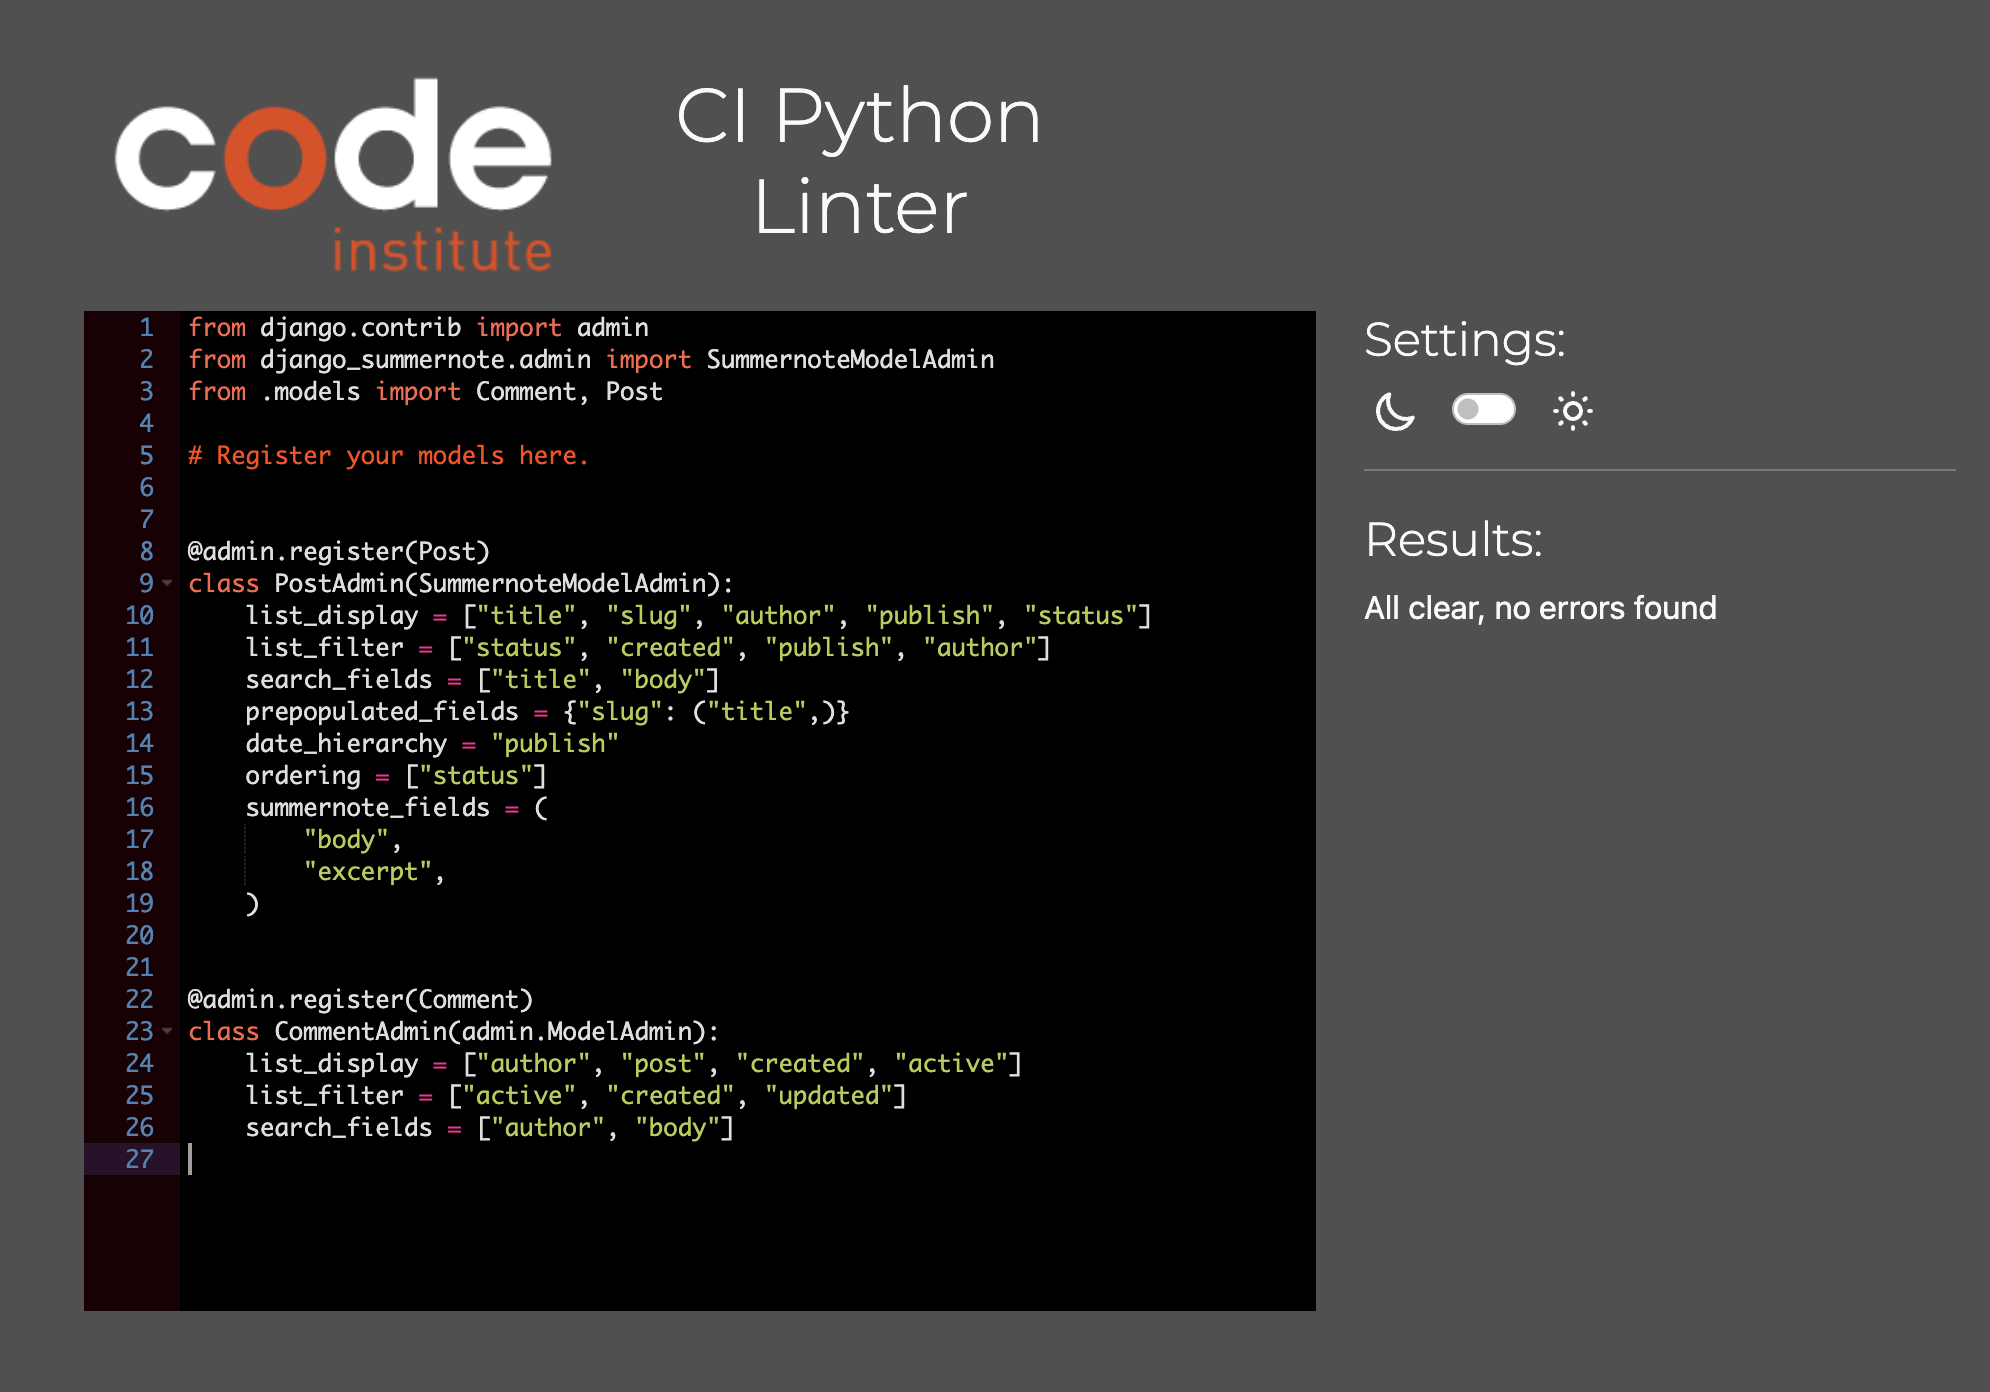
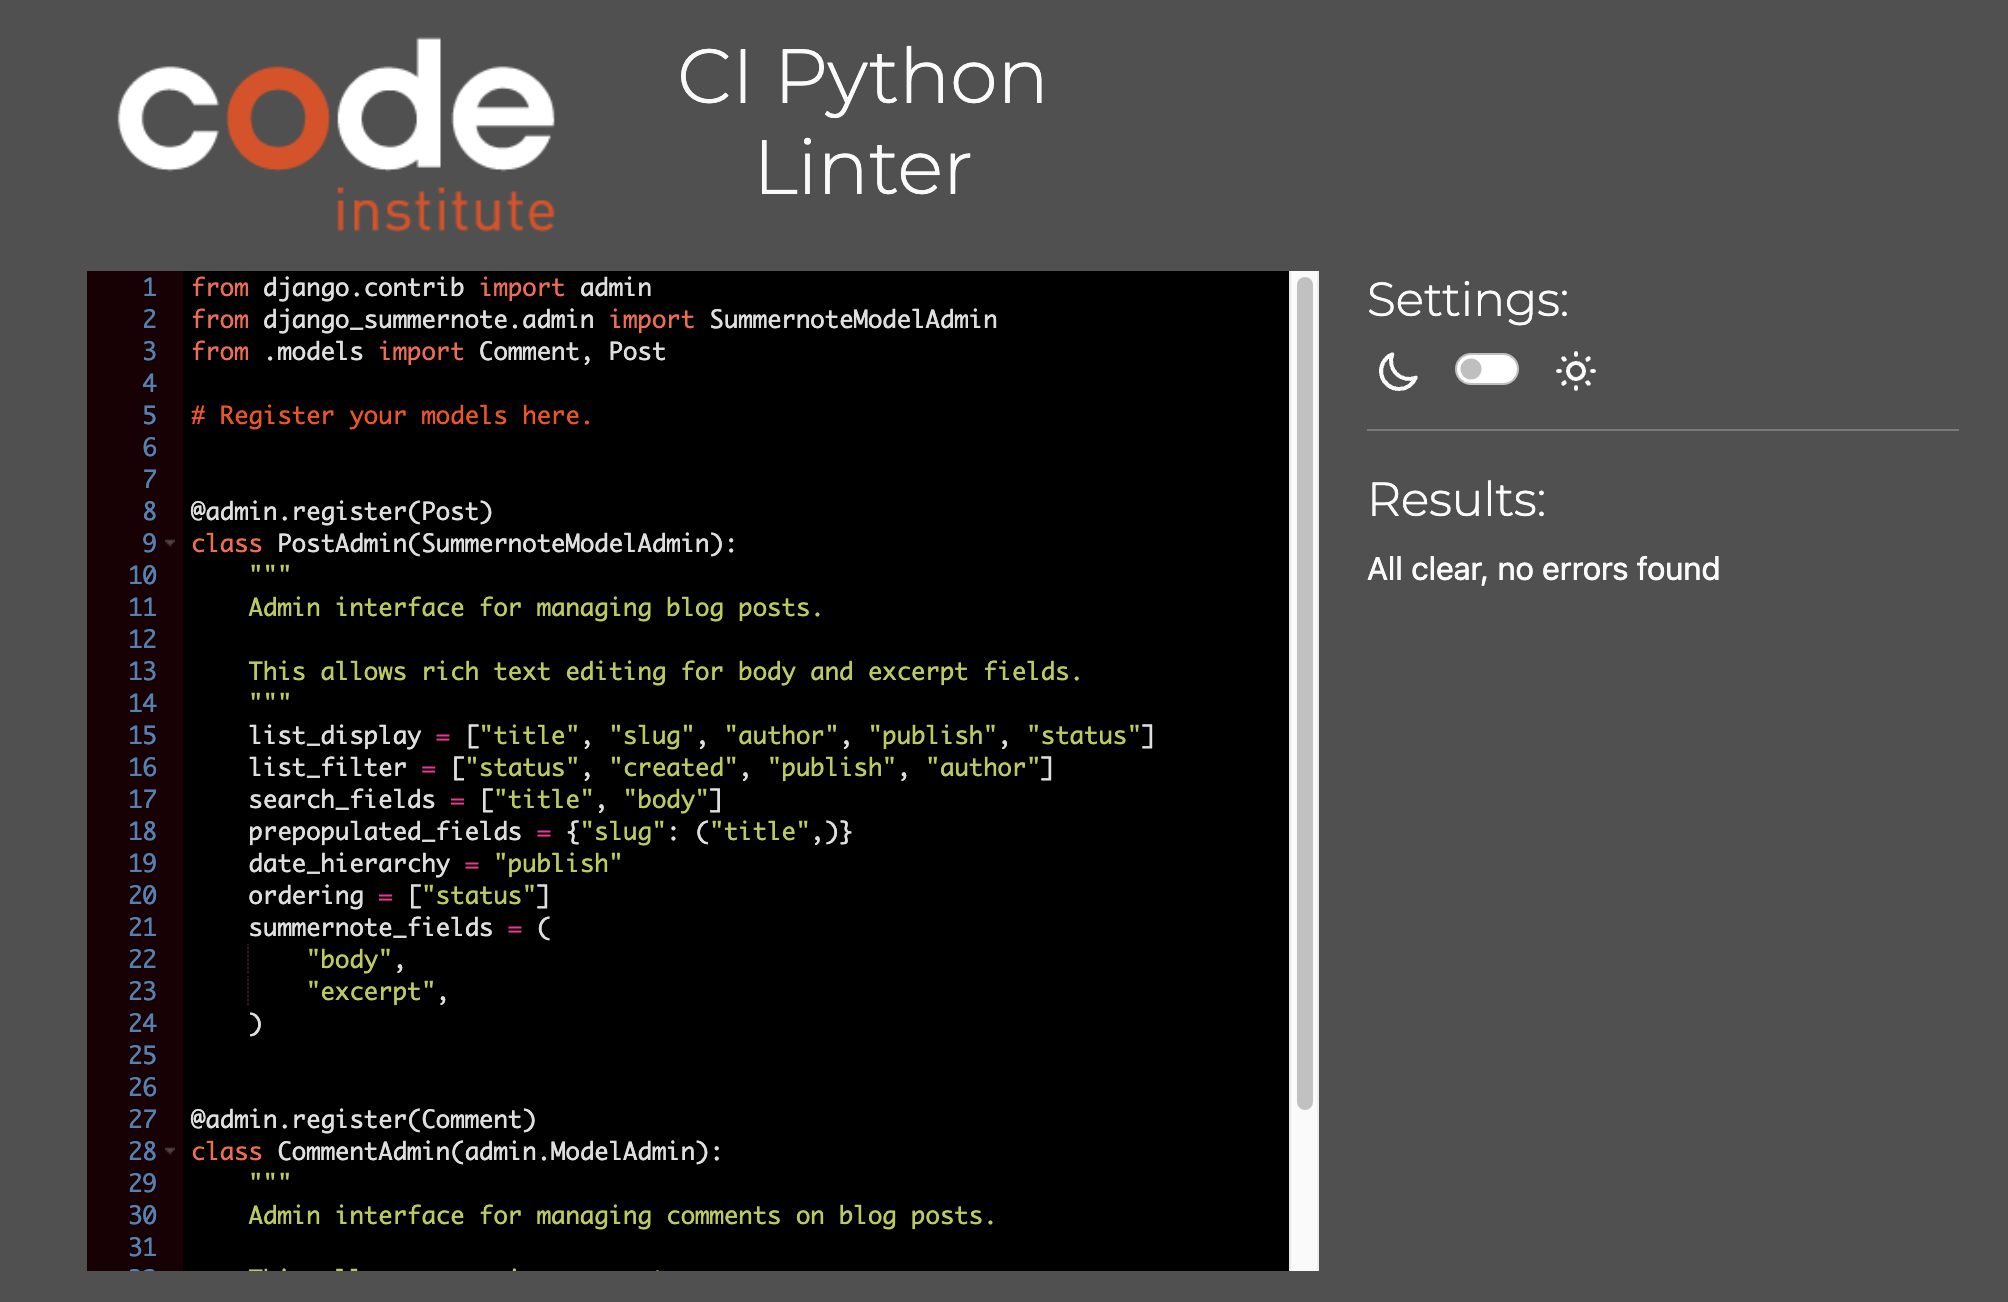
docs: Add docstrings and update Python Linter Analysis images

Changed region(s): [[0.0312, 0.0307, 0.8724, 0.9831], [0.4673, 0.7373, 0.4985, 0.768]]

diff --git a/blog/views.py b/blog/views.py
@@ -9,6 +9,19 @@ from .models import Post, Comment
 
 
 class PostListView(generic.ListView):
+    """
+    Renders a list of published blog posts.
+
+    Displays instances of :model:`blog.Post` that are published,
+    along with pagination.
+
+    **Context**
+    ``posts``
+        A queryset of published blog posts.
+
+    **Template**
+    :template:`blog/list.html`
+    """
     model = Post
     queryset = Post.objects.filter(status=Post.Status.PUBLISHED)
     template_name = "blog/list.html"
@@ -17,6 +30,26 @@ class PostListView(generic.ListView):
 
 
 class PostDetailView(View):
+    """
+    Displays an individual instance of :model:`blog.Post` and allows users to
+    submit comments.
+
+    **Context**
+    ``post``
+        The blog post instance retrieved by slug.
+
+    ``comments``
+        A queryset of comments related to the post.
+
+    ``comment_count``
+        The number of active comments on the post.
+
+    ``comment_form``
+        An instance of :form:`blog.CommentForm`.
+
+    **Template**
+    :template:`blog/post_detail.html`
+    """
     def get(self, request, slug):
         post = get_object_or_404(Post, slug=slug)
         comments = post.comments.all().order_by("-created")
@@ -73,7 +106,18 @@ class PostDetailView(View):
 
 
 def comment_edit(request, slug, comment_id):
+    """
+    Display an individual comment for edit.
 
+    **Context**
+
+    ``post``
+        An instance of :model:`blog.Post`.
+    ``comment``
+        A single comment related to the post.
+    ``comment_form``
+        An instance of :form:`blog.CommentForm`.
+    """
     if request.method == "POST":
         post = get_object_or_404(Post, slug=slug)
         comment = get_object_or_404(Comment, pk=comment_id)
@@ -103,6 +147,16 @@ def comment_edit(request, slug, comment_id):
 
 
 def comment_delete(request, slug, comment_id):
+    """
+    Delete an individual comment.
+
+    **Context**
+
+    ``post``
+        An instance of :model:`blog.Post`.
+    ``comment``
+        A single comment related to the post.
+    """
     post = get_object_or_404(Post, slug=slug)
     comment = get_object_or_404(Comment, pk=comment_id)
 
@@ -124,6 +178,14 @@ def comment_delete(request, slug, comment_id):
 
 
 def index(request):
+    """
+    Display the latest published blog post.
+
+    **Context**
+
+    ``latest_post``
+        The most recent instance of :model:`blog.Post` that is published.
+    """
     latest_post = (
         Post.objects.filter(status=Post.Status.PUBLISHED)
             .order_by("-publish").first()
@@ -136,6 +198,14 @@ def index(request):
 
 
 def like_post(request, slug):
+    """
+    Toggle like status for a specific blog post.
+
+    **Context**
+
+    ``post``
+        An instance of :model:`blog.Post` that is being liked or unliked.
+    """
     post = get_object_or_404(Post, slug=slug)
     if post.likes.filter(id=request.user.id).exists():
         post.likes.remove(request.user)

diff --git a/blog/admin.py b/blog/admin.py
@@ -7,6 +7,11 @@ from .models import Comment, Post
 
 @admin.register(Post)
 class PostAdmin(SummernoteModelAdmin):
+    """
+    Admin interface for managing blog posts.
+
+    This allows rich text editing for body and excerpt fields.
+    """
     list_display = ["title", "slug", "author", "publish", "status"]
     list_filter = ["status", "created", "publish", "author"]
     search_fields = ["title", "body"]
@@ -21,6 +26,11 @@ class PostAdmin(SummernoteModelAdmin):
 
 @admin.register(Comment)
 class CommentAdmin(admin.ModelAdmin):
+    """
+    Admin interface for managing comments on blog posts.
+
+    This allows approving comments.
+    """
     list_display = ["author", "post", "created", "active"]
     list_filter = ["active", "created", "updated"]
     search_fields = ["author", "body"]

diff --git a/profiles/views.py b/profiles/views.py
@@ -7,6 +7,25 @@ from blog.models import Comment, Post
 
 @login_required
 def user_profile(request):
+    """
+    Displays the profile page for the logged-in user.
+
+    Shows their approved and unapproved comments, plus the posts they've liked.
+
+    **Context**
+
+    ``approved_comments``
+        User's comments that are approved.
+    ``unapproved_comments``
+        User's comments waiting for approval.
+    ``liked_posts``
+        Posts the user has liked.
+    ``user``
+        The current logged-in user.
+
+    **Template**
+    :template:`profiles/user_profile.html`
+    """
     user = request.user
     approved_comments = Comment.objects.filter(author=user, active=True)
     unapproved_comments = Comment.objects.filter(author=user, active=False)

diff --git a/blog/models.py b/blog/models.py
@@ -7,6 +7,10 @@ from cloudinary.models import CloudinaryField
 
 
 class Post(models.Model):
+    """
+    Represents a blog post entry authored by a user,
+    related to :model:`auth.User` and :model:`blog.Post`.
+    """
     class Status(models.TextChoices):
         DRAFT = "DF", "Draft"
         PUBLISHED = "PB", "Published"
@@ -39,6 +43,10 @@ class Post(models.Model):
 
 
 class Comment(models.Model):
+    """
+    Represents a comment on a blog post authored by a user,
+    related to :model:`auth.User` and :model:`blog.Post`.
+    """
     post = models.ForeignKey(
         Post,
         on_delete=models.CASCADE,

diff --git a/venture_vibes/views.py b/venture_vibes/views.py
@@ -2,8 +2,22 @@ from django.shortcuts import render
 
 
 def custom_404_view(request, exception):
+    """
+    Displays a custom 404 error page.
+    It is triggered when a requested resource is not found.
+
+    **Template**
+    :template:`404.html`
+    """
     return render(request, "404.html", status=404)
 
 
 def custom_500_view(request):
+    """
+    Displays a custom 500 error page.
+    It is triggered when an internal server error occurs.
+
+    **Template**
+    :template:`500.html`
+    """
     return render(request, "500.html", status=500)

diff --git a/about/views.py b/about/views.py
@@ -5,6 +5,18 @@ from .models import About
 
 # Create your views here.
 class AboutView(View):
+    """
+    Renders the most recent information on the About page.
+
+    Displays an individual instance of :model:`about.About`.
+
+    **Context**
+    ``about``
+        The most recent instance of :model:`about.About`.
+
+    **Template**
+    :template:`about/about.html`
+    """
     def get(self, request):
         about = About.objects.order_by("-updated").first()
         return render(

diff --git a/contact/views.py b/contact/views.py
@@ -8,6 +8,16 @@ from .forms import ContactForm
 
 
 def contact_view(request):
+    """
+    Handle the contact form submission.
+
+    Displays a success message upon valid submission.
+
+    **Context**
+
+    ``contact_form``
+        An instance of :form:`contact.ContactForm`.
+    """
     if request.method == "POST":
         contact_form = ContactForm(data=request.POST)
         if contact_form.is_valid():

diff --git a/about/admin.py b/about/admin.py
@@ -7,4 +7,10 @@ from django_summernote.admin import SummernoteModelAdmin
 
 @admin.register(About)
 class AboutAdmin(SummernoteModelAdmin):
+    """
+    Admin interface for the About model using Django Summernote.
+
+    This allows rich text editing for the body field.
+
+    """
     summernote_fields = ("body",)

diff --git a/contact/admin.py b/contact/admin.py
@@ -6,6 +6,9 @@ from .models import ContactRequest
 
 @admin.register(ContactRequest)
 class ContactRequestAdmin(admin.ModelAdmin):
+    """
+    Admin interface for managing contact requests.
+    """
     list_display = ("name", "email", "read")
     list_filter = ("read",)
     search_fields = ("name", "email")

diff --git a/about/models.py b/about/models.py
@@ -4,6 +4,9 @@ from django.db import models
 
 
 class About(models.Model):
+    """
+    Represents the About page content.
+    """
     title = models.CharField(max_length=250)
     body = models.TextField()
     updated = models.DateTimeField(auto_now=True)

diff --git a/contact/models.py b/contact/models.py
@@ -4,6 +4,9 @@ from django.db import models
 
 
 class ContactRequest(models.Model):
+    """
+    Contact request submitted by a user.
+    """
     name = models.CharField(max_length=200)
     email = models.EmailField()
     message = models.TextField()

diff --git a/contact/forms.py b/contact/forms.py
@@ -3,6 +3,9 @@ from .models import ContactRequest
 
 
 class ContactForm(forms.ModelForm):
+    """
+    A form for submitting contact requests.
+    """
     class Meta:
         model = ContactRequest
         fields = ("name", "email", "message")
